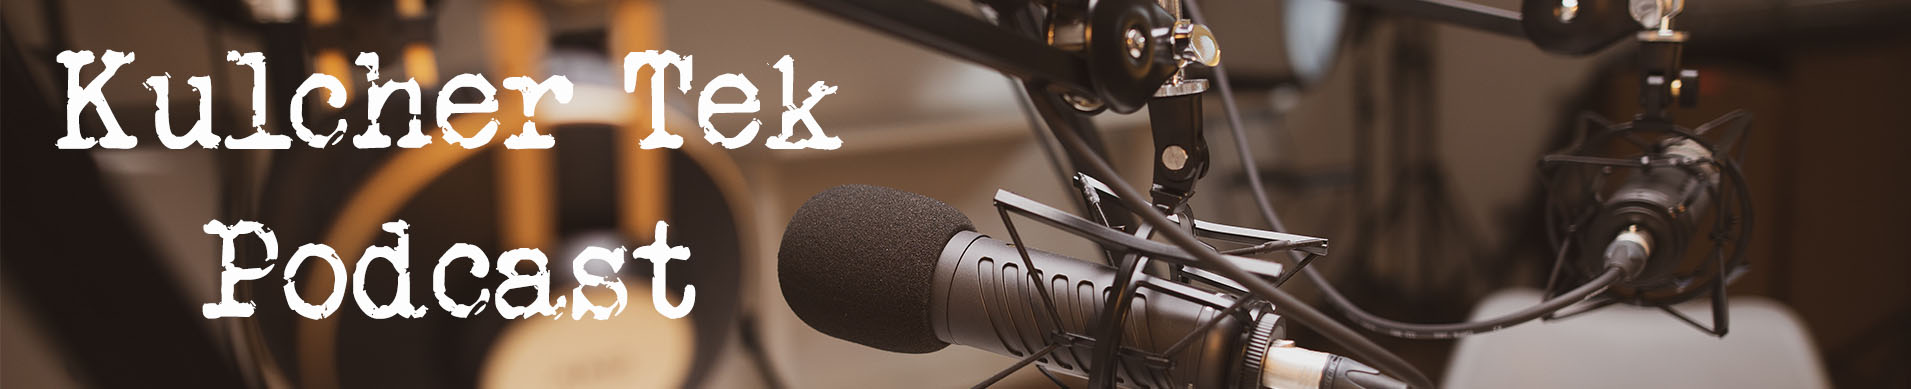
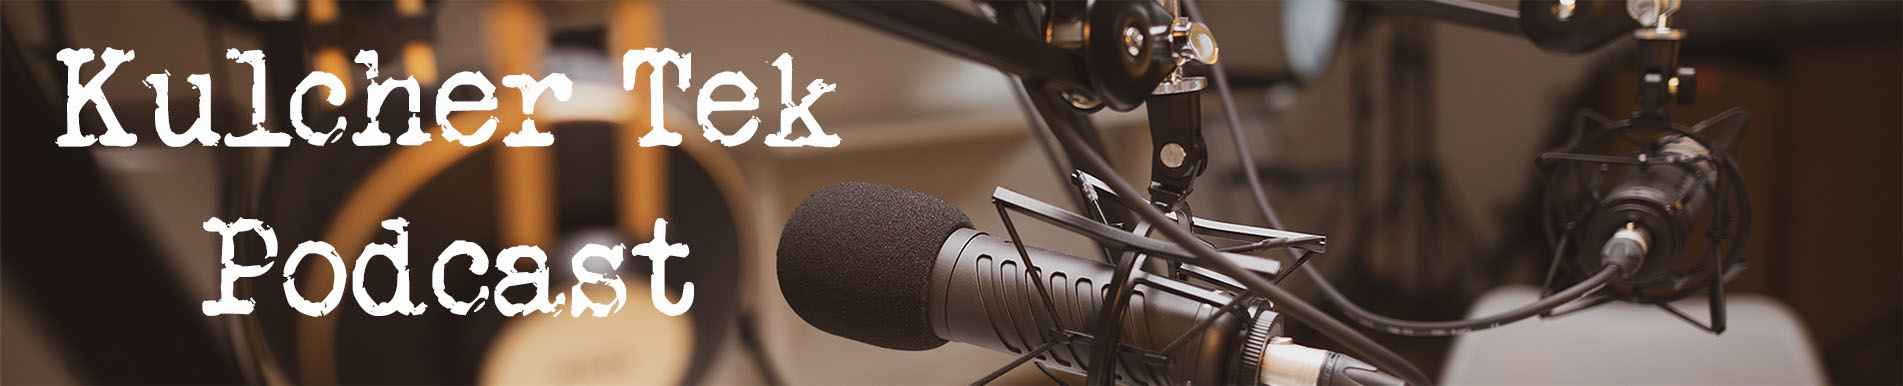
fixed layout added jumbo

diff --git a/src/components/Footer.js b/src/components/Footer.js
@@ -12,38 +12,38 @@ import { FiTwitter } from 'react-icons/fi';
 import { SiTiktok } from 'react-icons/si';
 import { AiOutlineCopyrightCircle } from 'react-icons/ai';
 
-import './NavFooter.css';
+import './Footer.css';
 
 
 class Footer extends Component {
 
     render() {
         return (
-    <Container fluid={true}>
+            <Container fluid={true}>
                 
             
-    <Navbar bg="dark" variant="dark"  fixed="sticky" className="justify-content-center">
-        <Row>
-        <Col >
-            <Navbar.Brand id="kT">
-                <AiOutlineCopyrightCircle />&nbsp; Kulter Tek Media 2021.&nbsp;
-            </Navbar.Brand>
-        </Col >
-
-        <Col className="p-1">
-            <div className=" socialMediaIcons">
-            <a href="https://www.instagram.com/kulchertek/"><SiInstagram /></a> &nbsp;
-            <a href="https://www.facebook.com/KulcherTek"><SiFacebook /></a> &nbsp;
-            <a href="https://twitter.com/KulcherTek"><FiTwitter /></a> &nbsp;
-            <SiTiktok /> &nbsp;
-            <a href="https://kulchertek.podbean.com/"><ImPodcast /></a> &nbsp;
-        </div>
-        </Col>
-
-        </Row>
-    </Navbar> 
-    
-    </Container>
+            <Navbar bg="clear"  bottom='fixed' className="justify-content-center footer">
+                <Row>
+                <Col >
+                    <Navbar.Brand id="kT">
+                        <AiOutlineCopyrightCircle />&nbsp; Kulter Tek Media 2021.&nbsp;
+                    </Navbar.Brand>
+                </Col >
+        
+                <Col>
+                    <div >
+                    <a href="https://www.instagram.com/kulchertek/"><SiInstagram /></a> &nbsp;
+                    <a href="https://www.facebook.com/KulcherTek" ><SiFacebook /></a> &nbsp;
+                    <a href="https://twitter.com/KulcherTek" ><FiTwitter /></a> &nbsp;
+                    <a href="/"><SiTiktok /></a> &nbsp;
+                    <a href="https://kulchertek.podbean.com/" ><ImPodcast /></a> &nbsp;
+                    </div>
+                </Col>
+        
+                </Row>
+            </Navbar> 
+            
+            </Container>
         );
         }
 

diff --git a/src/components/Nav.js b/src/components/Nav.js
@@ -8,8 +8,6 @@ import Nav from 'react-bootstrap/Nav';
 
 
 
-
-
 class NavBarMain extends Component {
 
     render() {
@@ -17,7 +15,7 @@ class NavBarMain extends Component {
             <div>
     
     <Router>
-    <Navbar bg="dark" variant="dark">
+    <Navbar bg="dark" variant="dark" >
     <Navbar.Brand href="/">Kulcher Tek Podcast</Navbar.Brand>
     <Nav className="mr-auto">
 

diff --git a/src/components/HomeBody.js b/src/components/HomeBody.js
@@ -14,7 +14,9 @@ render () {
     return (
 
     <div>
-        <Container fluid={false}>
+    
+
+        <Container fluid={false} className="py-5">
         <p class="bodyText">
             <h1>Welcome!</h1>
                 <p>Kulcher Tek Podcast where we talk about how techonology, pop culture, and everything in-between.</p>

diff --git a/src/components/Jumbotron.js b/src/components/Jumbotron.js
@@ -11,15 +11,10 @@ function Jumbo() {
 
 
     return (
-<Jumbotron>
+<Jumbotron fluid={false}>
     
     <img src={KTPicture} id='jumbo-image' alt='Micophone with podcast name' ></img>
     
-    
-
- 
-
-
 </Jumbotron>
 
     );

diff --git a/src/App.js b/src/App.js
@@ -9,12 +9,12 @@ import Jumbotron from "../src/components/Jumbotron";
 
 import './App.css';
 
+
 function App() {
   return (
 
     <div className='App'>
       
-
 <Jumbotron />
 <Nav />
 

diff --git a/src/components/Footer.css b/src/components/Footer.css
@@ -1,0 +1,18 @@
+
+
+.socialMediaIcons {
+    font-size: 1.0rem;
+}
+
+#kT {
+    font-size: 1.0rem;
+}
+
+
+a{
+    color: black;
+}
+
+a:hover{
+    color: rgb(120, 206, 112) !important;
+}

diff --git a/src/index.css b/src/index.css
@@ -43,7 +43,8 @@ p.jeanetteTxt {
 }
 
 .jumbotron {
-  width: ;
+  height: auto;
+  width: auto;
   padding: 0% !important;
   padding-left: 0% !important;
   padding-right: 0% !important;

diff --git a/src/components/CrewBody.js b/src/components/CrewBody.js
@@ -13,6 +13,9 @@ import '../index.css';
 function CrewBody() {
 
 return (
+
+    
+
 <Container fluid={false} className="py-5">
 
 

diff --git a/src/components/Nav.css b/src/components/Nav.css
@@ -1,0 +1,11 @@
+a{
+    color: white !important;
+}
+
+a:hover{
+    color: white;
+}
+
+a:visited {
+    color: white;
+}
